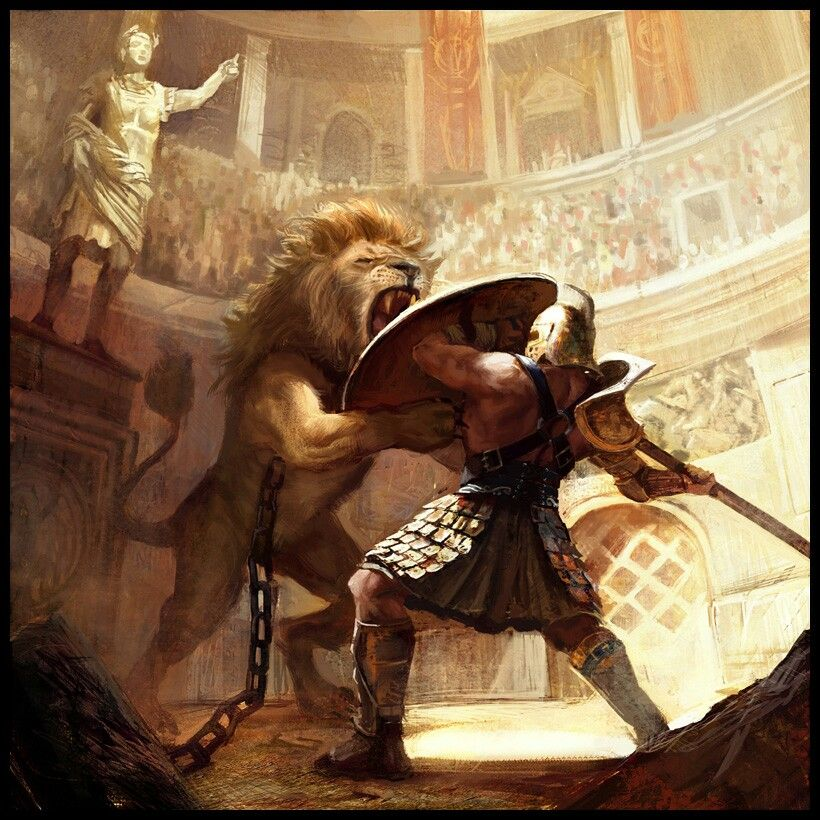
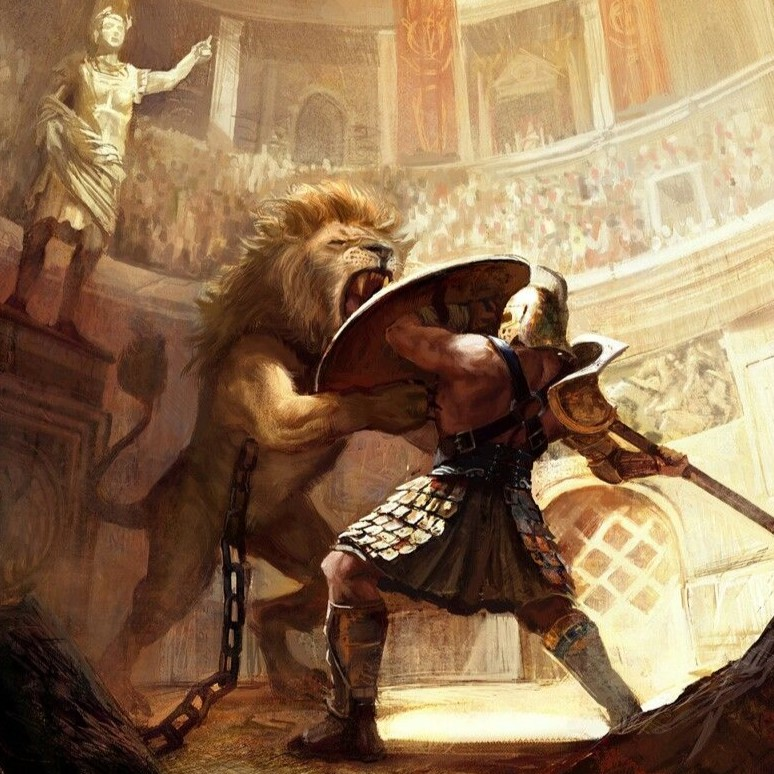
Added additional images and modified styles.css for better looks alongside a hover feature for the presented image

diff --git a/script/images.js b/script/images.js
@@ -212,11 +212,65 @@ document.addEventListener('DOMContentLoaded', function() {
         'images/image199.jpg',
         'images/image200.jpg',
         'images/image201.jpg',
+        'images/image202.jpg',
+        'images/image203.jpg',
+        'images/image204.jpg',
+        'images/image205.jpg',
+        'images/image206.jpg',
+        'images/image207.jpg',
+        'images/image208.jpg',
+        'images/image209.jpg',
+        'images/image210.jpg',
+        'images/image211.jpg',
+        'images/image212.jpg',
+        'images/image213.jpg',
+        'images/image214.jpg',
+        'images/image215.jpg',
+        'images/image216.jpg',
+        'images/image217.jpg',
+        'images/image218.jpg',
+        'images/image219.jpg',
+        'images/image220.jpg',
+        'images/image221.jpg',
+        'images/image222.jpg',
+        'images/image223.jpg',
+        'images/image224.jpg',
+        'images/image225.jpg',
+        'images/image226.jpg',
+        'images/image227.jpg',
+        'images/image228.jpg',
+        'images/image229.jpg',
+        'images/image230.jpg',
+        'images/image231.jpg',
+        'images/image232.jpg',
+        'images/image233.jpg',
+        'images/image234.jpg',
+        'images/image235.jpg',
+        'images/image236.jpg',
+        'images/image237.jpg',
+        'images/image238.jpg',
+        'images/image239.jpg',
+        'images/image240.jpg',
+        'images/image241.jpg',
+        'images/image242.jpg',
+        'images/image243.jpg',
+        'images/image244.jpg',
+        'images/image245.jpg',
+        'images/image246.jpg',
         ];
   
-    var randomIndex = Math.floor(Math.random() * images.length);
-    var selectedImage = images[randomIndex];
+    // Function to randomize image selection
+    function getRandomImage() {
+        var randomIndex = Math.floor(Math.random() * images.length);
+        return images[randomIndex];
+        // var selectedImage = images[randomIndex];
+    }
         
     var imgElement = document.getElementById('random-image');
-    imgElement.src = selectedImage;
+    imgElement.src = getRandomImage();
+
+    // Randomize the image when it is clicked on
+    imgElement.addEventListener('click', function() {
+        imgElement.src = getRandomImage();
+    })
   });

diff --git a/style.css b/style.css
@@ -18,7 +18,7 @@ html {
       /* color: #ebdbb2; */
       color: var(--bookmark);
       display: flex;
-      font-family: 'IBM Plex Mono', monospace;
+      font-family: 'Iosevka Nerd Font', monospace;
       font-size: 20px;
       height: 100%;
       justify-content: center;
@@ -95,10 +95,20 @@ html {
       /* border: 2px solid #ebdbb2; */
       border: 2px solid var(--header);
       border-radius: 8px;
-      justify-self: end;
+      justify-self: center;
+      align-self: center;
       width: 40vh;
       height: 40vh;
+      margin-left: 2em;
+      /* The below handles the hovering effect alongside img:hover */
+      transition: all .2s ease-in-out;
+      cursor: pointer;
     }
+
+    img:hover { 
+      transform: scale(1.1); 
+      cursor: pointer;
+      }
 
 /* Quotes are a work in progress */
 
@@ -140,3 +150,5 @@ input {
   outline: 0;
   padding-bottom: 0.5em;
 }
+
+  

diff --git a/script/generate_lines.py b/script/generate_lines.py
@@ -4,8 +4,8 @@
 image_directory = "images/"
 
 # Define the starting and ending numbers for the images
-start_number = 12
-end_number = 201
+start_number = 202
+end_number = 246
 
 # Iterate over the range of image numbers and print the corresponding lines
 for i in range(start_number, end_number + 1):
